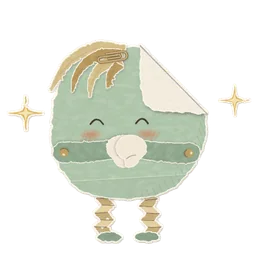
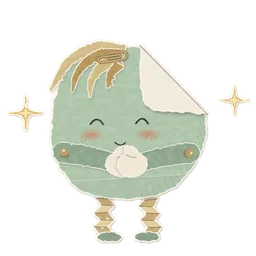
fix: 🙏 摺摺's pack, the owner's three — thumbs-up joined palms at the mouth, nothing in the dog-ear before, a heart warmed by a snug rim
- deep-thanks: the joined palms read thumbs-up — a new pose flag, flipL/flipR, mirrors an
  arm along its length (arms swung in across the body carried their thumbs underneath) —
  and sit lower, at the mouth (aimed at y 524, was 484), through the bow and in the hero.
- tucked-away: no note under the dog-ear before it tucks one in. The note slides deep into
  the corner, a little smaller as it goes, where the shut corner hides all of it, so the
  loop ends as it began.
- warm-heart: no halos behind the heart and the mittens; one warm rim just outside the
  heart's own edge, drawn with it in front of the mittens, a little wider at each beat (the
  heart prop's new rim state). The heart a little lower (centre y 522, was 512).
Re-rendered: deep-thanks 111.2 KB, tucked-away 87.8 KB, warm-heart 86.3 KB; thumbs 10.0,
8.7, 8.3 KB. Catalog regenerated (heroes.json only re-sorted).

Changed region(s): [[0.1875, 0.5, 0.75, 0.7188]]

diff --git a/designs/stickers/tuck/warm-heart.ts b/designs/stickers/tuck/warm-heart.ts
@@ -1,17 +1,17 @@
 /**
- * 摺摺 · 心暖暖 Warms my heart — it hugs a paper heart to its chest, eyes shut; the heart glows warm (paper halos
- * open behind it, a few crayon rays) and beats twice, then settles back to a soft glow.
- * Key pose: holding the heart before its chest with both mittens, smiling, a soft glow.
+ * 摺摺 · 心暖暖 Warms my heart — it hugs a paper heart to its chest, eyes shut; the heart warms (a snug warm rim just
+ * outside its own edge, in front of the mittens — never a big disc behind it: the owner) and beats twice, the rim
+ * pulsing only a little, then it settles back. Key pose: holding the heart before its chest, smiling, a faint rim.
  *
  * The body moves on 2 frames (the squeeze and its release); the heart, its glow and the face carry the rest.
  */
 import { blink, defineSticker, fr, keys, snap, step, type StickerPuppet } from '../kit';
 
-/** The heart's centre on the chest, rig units: its top lobes just under the mouth (the face slides up a little). */
-const HEART: [number, number] = [349, 512];
+/** The heart's centre on the chest, rig units: a little below the mouth (the owner: a little lower). */
+const HEART: [number, number] = [349, 522];
 const SCALE = 0.9;
 
-/** Both mittens at the heart's lower sides, holding it from behind (the heart is in front of them, its glow behind). */
+/** Both mittens at the heart's lower sides, holding it from behind (the heart and its rim are in front of them). */
 function hug(tk: StickerPuppet, squeeze: number): void {
   const [hx, hy] = tk.pagePoint(HEART[0], HEART[1] + 34);
   const k = tk.k;
@@ -25,11 +25,8 @@ export default defineSticker({
   // the thumb: hugging the heart at its fullest glow, mid-beat
   hero: fr(12),
   cast: { tuck: { slug: 'tuck', x: 216, ground: 414, k: 0.76 } },
-  props: {
-    glow: { kind: 'heart', seed: 11, inside: { puppet: 'tuck', above: 'torso' } },
-    heart: { kind: 'heart', seed: 11, z: 100 },
-  },
-  frame(t, { tuck }, { glow: halo, heart }) {
+  props: { heart: { kind: 'heart', seed: 11, z: 100 } },
+  frame(t, { tuck }, { heart }) {
     const p = tuck.pose;
     // the squeeze: the body gives once (f4) and comes back (f19)
     const tb = snap(t, [0, fr(4), fr(19)]);
@@ -38,18 +35,19 @@ export default defineSticker({
     p.sx *= 1 + 0.02 * squeeze;
     p.faceY += 2 * squeeze;
     hug(tuck, squeeze);
-    // the glow: up in three steps, held, down in three; the rays only at its fullest
+    // the warmth: up in three steps, held, down in three — the rim's size and the heart's own warming
     const ts = step(t, 1 / 6);
     const glow = keys(snap(t, [0, fr(5), fr(7), fr(9), fr(19), fr(21), fr(23)]), [[0, 0.3], [fr(5), 0.55], [fr(7), 0.8], [fr(9), 1], [fr(18), 1], [fr(19), 0.7], [fr(21), 0.45], [fr(23), 0.3]]);
     // two beats while it glows (the heart swells and settles), squeezed a little while hugged
     const beat = t >= fr(10) && t < fr(18) ? [0, 0.6, 1, 0.3, 0, 0.6, 1, 0.3][Math.floor((t - fr(10)) * 12 + 1e-6)] ?? 0 : 0;
     const [hx, hy] = tuck.pagePoint(...HEART);
-    halo.at(hx, hy, { k: tuck.k, scale: SCALE }).set({ glow, heart: 0, above: glow });
-    heart.at(hx, hy, { k: tuck.k, scale: SCALE * (1 + 0.07 * beat) * (1 - 0.04 * squeeze) }).set({ glow: 0, warm: glow });
+    // one snug rim just outside the heart's edge, a little wider at each beat (a small pulse, never a disc)
+    heart.at(hx, hy, { k: tuck.k, scale: SCALE * (1 + 0.06 * beat) * (1 - 0.04 * squeeze) })
+      .set({ glow: 0, warm: glow, rim: 0.35 + 0.5 * glow + 0.15 * beat });
     // the face: eyes shut from the squeeze until it lets go, the blush rising with the glow
     if (t >= fr(4) && t < fr(20)) p.eyes = 'shut';
     p.blush = keys(ts, [[0, 0.4], [fr(4), 0.6], [fr(10), 1.6], [fr(18), 1.6], [fr(22), 0.4]]);
-    p.faceY -= 6;
+    p.faceY -= 3;
     // the fringe stirs in the warmth (a small change while the body holds)
     if (t > fr(10) && t < fr(18)) p.decoR += 2.5 * Math.sin((t - fr(10)) * Math.PI * 3);
     blink(tuck, t, fr(24), fr(2));

diff --git a/designs/stickers/tuck/tucked-away.ts b/designs/stickers/tuck/tucked-away.ts
@@ -1,19 +1,21 @@
 /**
- * 摺摺 · 收到了 Got it, I'll keep it — its dog-ear is where it keeps the notes it gets (one already peeks out from under
- * it). It lifts the corner, lays the note it was holding on top of the others, lets the corner fall shut over it and pats
- * it twice; then another note flutters down into its mitten (keep them coming).
- * Key pose: standing, a note held out at its side, another's corner peeking from under its dog-ear, smiling.
+ * 摺摺 · 收到了 Got it, I'll keep it — it lifts its dog-ear, slips the note it was holding deep under it (nothing was
+ * there before: the owner), lets the corner fall shut over it and pats it twice; then another note flutters down into its
+ * mitten (keep them coming). Key pose: standing, a note held out at its side, smiling.
  *
  * The body never moves: the arm, the corner, the notes and the face do, so every frame stays small.
  */
 import { blink, defineSticker, ease, fr, keys, lerp, span } from '../kit';
 
 /**
- * Under the shut dog-ear, rig units: where the kept notes lie, a corner peeking out below the flap's torn edge (the
- * triangle the flap covers has its right angle just below-left of here).
+ * Deep under the shut dog-ear, rig units: the triangle the flap covers has its right angle at about (377, 407), its legs
+ * running up and right; a note of TUCKED fits wholly inside it there, so once the corner shuts nothing shows — and the
+ * loop ends as it began, with nothing under the corner.
  */
-const POCKET: [number, number] = [462, 418];
+const POCKET: [number, number] = [411, 381];
+/** The note as held (large enough to read), and as it lies slid deep into the corner. */
 const NOTE = 1.1;
+const TUCKED = 0.58;
 /** The arm held a little out, showing the note. */
 const OUT = 40;
 
@@ -25,12 +27,11 @@ export default defineSticker({
   cast: { tuck: { slug: 'tuck', x: 179, ground: 414, k: 0.72 } },
   props: {
     held: { kind: 'note', seed: 7, z: 100 },
-    // inside, just above torso-alt and under the flap: the note going in, over the one kept there before
+    // inside, just above torso-alt and under the flap: the note going in
     tucked: { kind: 'note', seed: 7, inside: { puppet: 'tuck', above: 'torso-alt' } },
-    kept: { kind: 'note', seed: 7, inside: { puppet: 'tuck', above: 'torso-alt' } },
     next: { kind: 'note', seed: 7, z: 100 },
   },
-  frame(t, { tuck }, { held, tucked, kept, next }) {
+  frame(t, { tuck }, { held, tucked, next }) {
     const p = tuck.pose;
     const k = tuck.k;
     p.front = true;
@@ -52,13 +53,12 @@ export default defineSticker({
     p.alt = t >= fr(6) && t < fr(12);
     if (p.alt) p.extra['flap-alt'] = 1;
     else p.extra.flap = 1;
-    kept.at(px, py, { k, scale: NOTE, rot: -4 });
     const [mx, my] = tuck.mitten('R', 0.67);
     if (t < fr(7)) held.at(mx, my, { k, scale: NOTE, anchor: 'grip', rot: -6 + 10 * span(t, fr(3), fr(7)) });
     else if (t < fr(12)) {
-      // laid over the kept one, exactly, so once the corner shuts the two are one picture
+      // slid deep in under the lifted corner (smaller as it goes in), where the shut corner will hide all of it
       const u = ease.out(span(t, fr(7), fr(9)));
-      tucked.at(lerp(mx - 10 * k, px, u), lerp(my - 22 * k, py, u), { k, scale: NOTE, rot: lerp(4, -4, u) });
+      tucked.at(lerp(mx - 10 * k, px, u), lerp(my - 22 * k, py, u), { k, scale: lerp(NOTE, TUCKED, u), rot: lerp(4, 0, u) });
     }
     // the next note: pops up high on the right and rocks down into the mitten (f17–25), held from then on
     const fly = span(t, fr(17), fr(25));

diff --git a/designs/stickers/kit/props.ts b/designs/stickers/kit/props.ts
@@ -18,7 +18,7 @@ export type PropKind =
 
 /** What a prop's state may say (each kind reads its own keys; anything else is ignored). */
 export type PropState = Partial<Record<
-  | 'glow' | 'warm' | 'heart' | 'above' | 'steam' | 'phase' | 'seal' | 'wave' | 'shine' | 'lines' | 'underline' | 't' | 'show'
+  | 'glow' | 'warm' | 'heart' | 'above' | 'rim' | 'steam' | 'phase' | 'seal' | 'wave' | 'shine' | 'lines' | 'underline' | 't' | 'show'
   | 'pulse' | 'glint' | 'rays' | 'draw',
   number
 >>;
@@ -134,7 +134,8 @@ function confettiBits(seed: number): Bit[] {
 export const PROP_KINDS: Record<PropKind, KindDef> = {
   /**
    * A paper heart; `glow` 0–1 lays warm paper halos behind it and a few crayon rays (to the sides and below), `above`
-   * 0–1 three short rays over it, `warm` (default: glow) warms the heart's own red. `heart: 0` draws the glow alone — to put the glow behind a puppet's
+   * 0–1 three short rays over it, `rim` 0–1 a snug warm rim just outside its edge (a small glow that hugs it — pulse it
+   * between about 0.7 and 1), `warm` (default: glow) warms the heart's own red. `heart: 0` draws the glow alone — to put the glow behind a puppet's
    * face and arms (a prop inside it) and the heart itself in front of them (a second heart prop, `glow: 0`).
    */
   heart: {
@@ -158,7 +159,9 @@ export const PROP_KINDS: Record<PropKind, KindDef> = {
       });
       const heart = tear(heartPts(120, 110, 116), seed + 3, { jag: 1.1, wander: 5 });
       const hi = pencil([[87, 88], [93, 76], [105, 72]], seed + 4, 2, 0.8);
-      return `<g class="h2">${halo2}</g><g class="h1">${halo1}</g>
+      // a snug rim just outside the heart's own edge (`rim`): a glow that hugs it, not a disc behind it
+      const rim = paper(path(tear(heartPts(120, 110, 140), seed + 5, { jag: 0.8, wander: 3 })), 'oklch(85% 0.12 72)', 'thin');
+      return `<g class="h2">${halo2}</g><g class="h1">${halo1}</g><g class="h0">${rim}</g>
         ${pencilG(rays, { w: 5.5, op: 0.9, color: INK.terracotta, cls: 'r', dash: true }).replace(`filter="url(#${F}graphite)"`, `filter="url(#${F}crayon)"`)}
         ${pencilG(up, { w: 5.5, op: 0.9, color: INK.terracotta, cls: 'ru', dash: true }).replace(`filter="url(#${F}graphite)"`, `filter="url(#${F}crayon)"`)}
         <g class="hp">${paper(path(heart), INK.red)}
@@ -171,6 +174,9 @@ export const PROP_KINDS: Record<PropKind, KindDef> = {
       scaleAll(svg, '.h1', g > 0 ? 0.76 + 0.24 * smooth(g) : 0);
       drawIn(svg, '.r', smooth((g - 0.55) / 0.45));
       drawIn(svg, '.ru', smooth(((s.above ?? 0) - 0.55) / 0.45));
+      // the rim: 0 just under the heart's edge (hidden), 1 about 9 units out all round
+      const rim = clamp(s.rim ?? 0, 0, 1.2);
+      scaleAll(svg, '.h0', rim > 0 ? 116 / 140 + (1 - 116 / 140) * rim : 0);
       const warm = svg.querySelector<SVGPathElement>('.warm');
       if (warm) warm.style.opacity = (0.32 * clamp(s.warm ?? g, 0, 1)).toFixed(3);
       const hp = svg.querySelector<SVGGElement>('.hp');

diff --git a/designs/stickers/kit/puppet.ts b/designs/stickers/kit/puppet.ts
@@ -28,6 +28,13 @@ export interface StickerPose extends Pose {
   extra: Record<string, number>;
   /** 悄悄's `stars-glow` (the landing page shows it on the night page only; a sticker decides). */
   glow: number;
+  /**
+   * An arm mirrored along its own length, its mitten's thumb on the other side: arms swung in across the body carry
+   * their thumbs underneath (drawn hanging, thumb outward), so joined palms (合掌) or a held-up mitten read thumbs-up
+   * only flipped.
+   */
+  flipL: boolean;
+  flipR: boolean;
   // blush: as the engine's, 0–1; a sticker may go to 2, the flush spreading wider (a deep thank-you, a lean-on)
 }
 
@@ -210,7 +217,7 @@ export class StickerPuppet {
       legL: 7 * sit + R.floorAng * flo, legR: -7 * sit - R.floorAng * flo, legS: 1 - 0.14 * sit - R.floorS * flo,
       liftL: R.arms.L.rest, liftR: R.arms.R.rest, faceX: 0, faceY: 0, eyes: 'open', mouth: 'mouth', alt: false,
       decoR: 0, decoY: 0, blush: 0, stars: 1, alpha: 1, shadow: 0, front: false, popX: 1, popY: 1,
-      decoX: 0, decoS: 1, lean: 0, extra: {}, glow: 0,
+      decoX: 0, decoS: 1, lean: 0, extra: {}, glow: 0, flipL: false, flipR: false,
     };
   }
 
@@ -316,7 +323,10 @@ export class StickerPuppet {
     for (const side of ['L', 'R'] as const) {
       const a = R.arms[side];
       const lift = side === 'L' ? p.liftL : p.liftR;
-      set(a.name, `rotate(${f((side === 'L' ? 90 + lift : 90 - lift) - a.theta)}deg)`);
+      const to = side === 'L' ? 90 + lift : 90 - lift;
+      // flipped: mirrored along its own length first (laid along +x, mirrored, turned to where it points)
+      const flip = side === 'L' ? p.flipL : p.flipR;
+      set(a.name, flip ? `rotate(${f(to)}deg) scale(1,-1) rotate(${f(-a.theta)}deg)` : `rotate(${f(to - a.theta)}deg)`);
     }
     for (const name of ['deco', 'deco-back']) {
       set(name, `translate(${f(p.decoX * k)}px,${f(-p.decoY * k)}px) rotate(${f(p.decoR)}deg) scale(${f(p.decoS)})`);

diff --git a/designs/stickers/tuck/deep-thanks.ts b/designs/stickers/tuck/deep-thanks.ts
@@ -1,5 +1,5 @@
 /**
- * 摺摺 · 真的很謝謝你 Thank you so much — it brings its mittens together before its chest (合掌), bows (the kit's bow:
+ * 摺摺 · 真的很謝謝你 Thank you so much — it brings its mittens together before its chest (合掌, thumbs up, at its mouth), bows (the kit's bow:
  * a little forward, the face dropping, the fringe swinging forward), eyes shut, its blush spreading, a sparkle at each
  * shoulder while it holds; then it rises and lets its mittens down. A closed smile throughout — never mouth-o.
  * Key pose: standing, smiling. Hero: deep in the bow, palms together, blush 2, both sparkles up.
@@ -24,10 +24,13 @@ export default defineSticker({
     const join = keys(snap(t, [0, fr(4), fr(5), fr(6), fr(24), fr(25), fr(26)]), [[0, 0], [fr(3), 0], [fr(6), 1, ease.smooth], [fr(23), 1], [fr(26), 0, ease.smooth]]);
     // the bow: down f8–10, held, up f21–23
     const e = bow(tuck, tb, fr(7), fr(10), fr(20), fr(23), 0.85);
-    const [cx, cy] = tuck.pagePoint(349, 484);
+    // joined at the mouth, not over it (the owner: lower, at the mouth), thumbs up: arms swung in across the body carry
+    // their thumbs underneath, so they are flipped along their length once they have come in
+    const [cx, cy] = tuck.pagePoint(349, 524);
     p.liftL = tuck.rest('L') + (tuck.aim('L', cx, cy) - tuck.rest('L')) * join;
     p.liftR = tuck.rest('R') + (tuck.aim('R', cx, cy) - tuck.rest('R')) * join;
     p.front = join > 0;
+    p.flipL = p.flipR = join > 0.5;
     p.mouth = 'mouth';
     // the blush spreads while it holds (a small change every other frame)
     p.blush = keys(step(t, 1 / 6), [[0, 0.3], [fr(8), 0.6], [fr(14), 2], [fr(20), 2], [fr(24), 1], [fr(28), 0.3]]);

diff --git a/src/lib/stickers/catalog.generated.ts b/src/lib/stickers/catalog.generated.ts
@@ -12,9 +12,9 @@ export interface StickerArt {
 export const STICKER_ART: Readonly<Record<string, StickerArt>> = {
   "tuck/icon": { durationMs: 0, frames: 1, bytes: 2810, v: "02dffb2fb0" },
   "tuck/morning": { durationMs: 2083, frames: 16, bytes: 113600, v: "b8099925e4" },
-  "tuck/deep-thanks": { durationMs: 2583, frames: 23, bytes: 112236, v: "4ce2030be7" },
-  "tuck/tucked-away": { durationMs: 2583, frames: 27, bytes: 97750, v: "a83f7daffd" },
-  "tuck/warm-heart": { durationMs: 2333, frames: 24, bytes: 96442, v: "ca397f1d0e" },
+  "tuck/deep-thanks": { durationMs: 2583, frames: 23, bytes: 113850, v: "c8be82e0b3" },
+  "tuck/tucked-away": { durationMs: 2583, frames: 27, bytes: 89936, v: "390b9c76d6" },
+  "tuck/warm-heart": { durationMs: 2333, frames: 24, bytes: 88340, v: "7bccab5a2d" },
   "tuck/take-your-time": { durationMs: 2583, frames: 26, bytes: 74078, v: "536168c2aa" },
   "tuck/glad-youre-here": { durationMs: 2583, frames: 13, bytes: 65742, v: "6010f97d7b" },
   "twine/icon": { durationMs: 0, frames: 1, bytes: 3232, v: "150c0e5854" },

diff --git a/designs/stickers/review/data.js b/designs/stickers/review/data.js
@@ -35,10 +35,10 @@ window.STICKERS = [
     },
     "durationMs": 2583,
     "frames": 23,
-    "bytes": 112236,
-    "v": "4ce2030be7",
+    "bytes": 113850,
+    "v": "c8be82e0b3",
     "hero": 1.333,
-    "thumbBytes": 10200
+    "thumbBytes": 10208
    },
    {
     "id": "tucked-away",
@@ -48,10 +48,10 @@ window.STICKERS = [
     },
     "durationMs": 2583,
     "frames": 27,
-    "bytes": 97750,
-    "v": "a83f7daffd",
+    "bytes": 89936,
+    "v": "390b9c76d6",
     "hero": 0.5,
-    "thumbBytes": 9354
+    "thumbBytes": 8934
    },
    {
     "id": "warm-heart",
@@ -61,10 +61,10 @@ window.STICKERS = [
     },
     "durationMs": 2333,
     "frames": 24,
-    "bytes": 96442,
-    "v": "ca397f1d0e",
+    "bytes": 88340,
+    "v": "7bccab5a2d",
     "hero": 1,
-    "thumbBytes": 8790
+    "thumbBytes": 8450
    },
    {
     "id": "take-your-time",

diff --git a/designs/stickers/README.md b/designs/stickers/README.md
@@ -94,7 +94,9 @@ export default defineSticker({
   which hides its face, arms and bow — 聆聆's card's other side), `decoR`/`decoY`, `blush` (0–1 as the engine; a sticker
   may go to 2, the flush spreading wider), `stars` (悄悄's opacity), `front` (arms drawn behind the torso come in front
   once turned away from rest — set it whenever a mitten crosses the body), `popX`/`popY`, `alpha`. Stickers add `decoX`,
-  `decoS` (move and scale the deco freely: a beret doffed, a bow's loops perking up), `lean` (the paper tips toward the
+  `decoS` (move and scale the deco freely: a beret doffed, a bow's loops perking up), `flipL` / `flipR` (an arm mirrored
+  along its length, its mitten's thumb to the other side: arms swung in across the body carry their thumbs underneath,
+  so joined palms read thumbs-up only flipped — 摺摺's deep-thanks), `lean` (the paper tips toward the
   viewer about its foot, in perspective: a bow), `glow` (悄悄's `stars-glow`, on any paper), and `extra` (extra parts,
   opacity 0–1: 摺摺's `flap` / `flap-alt`, 悄悄's `star-glow-0`…`10`).
   Stances: `stand`, `sit` (on an edge, legs over its front), `floor` (sitting on the floor, legs out — rest the arms
@@ -113,7 +115,8 @@ export default defineSticker({
   together, a note held out) so a bow is never armless.
 - **Props** (`kit/props.ts`, drawn by seeded generator code in the series' paper: torn or cut paper with its fibre rim
   and glue shadow, graphite, crayon) are placed in canvas px at their puppet's k so their grain matches: `heart` (`glow`,
-  `warm`, `heart: 0` for the glow alone), `note`, `cup` (`steam`, `phase`), `flower`, `slip` (`seal`: the red ○), `stamp`,
+  `warm`, `rim` — a snug warm rim just outside its edge, the glow the owner wants on a held heart rather than big
+  halos behind it —, `heart: 0` for the glow alone), `note`, `cup` (`steam`, `phase`), `flower`, `slip` (`seal`: the red ○), `stamp`,
   `pennant` (`wave`), `star` (`shine`), `card` (`lines`, `underline`), `confetti` (`t`), `wave` (the brand's ≋: `show`,
   `pulse`), `tear` (`glint`), `lantern` (悄悄's star held up: `glow`), `sun` (`rays`), `burst` (joy strokes: `draw`),
   `sparkle` (`show`), `sparkles` (a cluster of three, the big one 1.6× a sparkle: `show`), `strokes` (motion lines:
